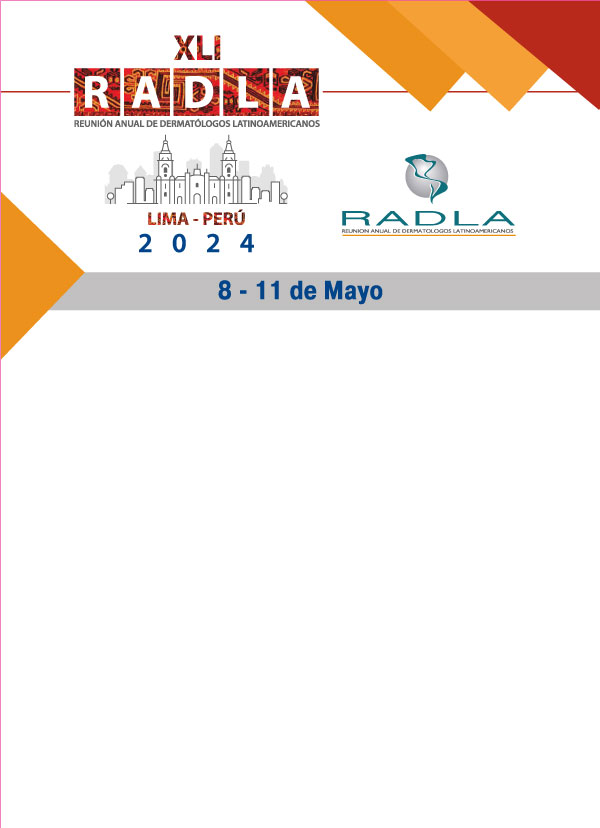
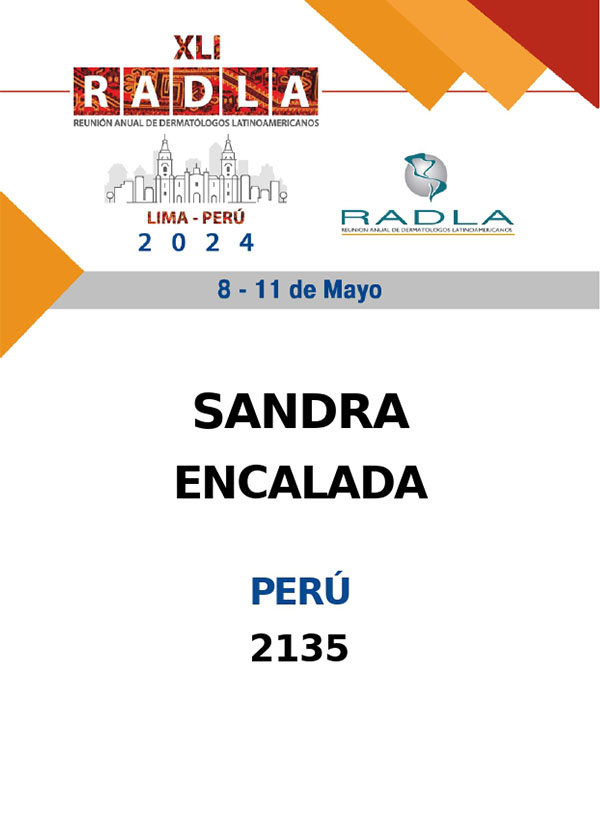
Actualizado posion texto solapin calidad

diff --git a/resources/views/inc/styles.blade.php b/resources/views/inc/styles.blade.php
@@ -140,8 +140,8 @@
 
                 .solapinparti, .solapinacconp{
                     background-size: contain;
-                    width: 295px;
-                    height: 407px;
+                    width: 500px;
+                    height: 690px;
                     font-family: 'dejavusans' !important;
                     font-weight: 800 !important;
                     position: relative;
@@ -149,46 +149,42 @@
 
                 .solapinparti .slp_nombre, .solapinacconp .slp_nombre{
                     position: absolute;
-                    width: 295px;
-                    padding: 5px;
+                    width: 500px;
                     display: block;
-                    padding-top: 185px;
+                    padding-top: 313px;
                     text-align: center;
-                    font-size: 24px;
-                    letter-spacing:-0.30mm;
+                    font-size: 40px;
+                    letter-spacing: -0.30mm;
                     color: black;
                 }
 
                 .solapinparti .slp_apellido, .solapinacconp .slp_apellido{
                     position: absolute;
-                    width: 295px;
-                    padding: 5px;
-                    margin-top: 217px;
+                    width: 500px;
+                    margin-top: 375px;
                     display: block;
                     text-align: center;
-                    font-size: 22px;
+                    font-size: 36.5px;
                     letter-spacing:-0.30mm;
                     color: black;
                 }
 
                 .solapinparti .slp_pais, .solapinacconp .slp_pais{
                     position: absolute;
-                    width: 295px;
-                    padding: 5px;
-                    margin-top: 273px;
+                    width: 500px;
+                    margin-top: 470px;
                     display: block;
                     text-align: center;
-                    font-size: 18px;
+                    font-size: 30px;
                     text-transform: uppercase;
                     color: #004889;
                 }
 
                 .solapinparti .slp_idinscr, .solapinacconp .slp_idinscr{
                     position: absolute;
-                    width: 295px;
-                    padding: 5px;
-                    margin-top: 301px;
-                    font-size: 18px;
+                    width: 500px;
+                    margin-top: 518px;
+                    font-size: 30px;
                     display: block;
                     text-align: center;
                     color: black;
@@ -196,10 +192,9 @@
 
                 .solapinparti .slp_cargo, .solapinacconp .slp_cargo{
                     position: absolute;
-                    width: 295px;
-                    padding: 5px;
-                    margin-top: 350px;
-                    font-size: 18px;
+                    width: 500px;
+                    margin-top: 620px;
+                    font-size: 30px;
                     display: block;
                     text-align: center;
                     color: #C40000;
